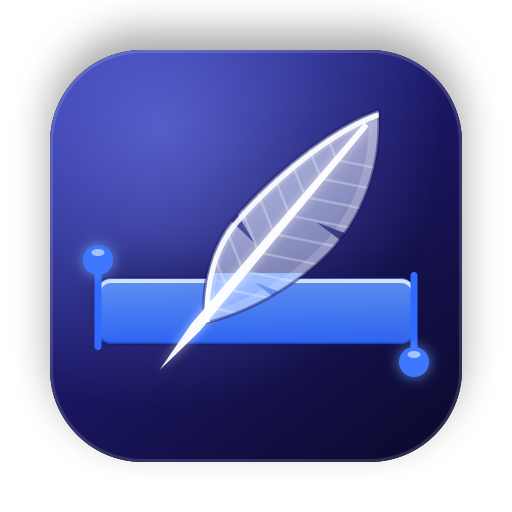
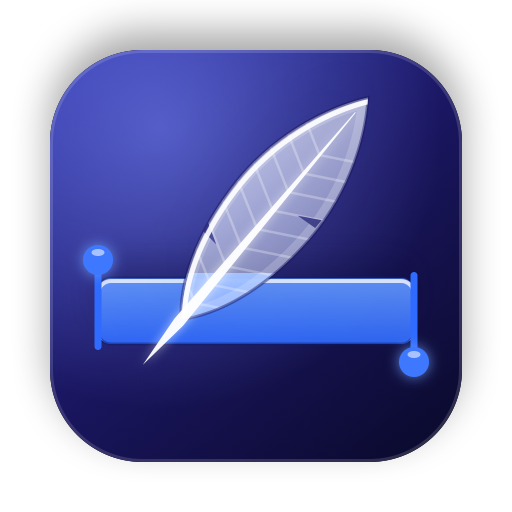
Quill 1.0.1

Changed region(s): [[0.2812, 0.1875, 0.75, 0.7188]]

diff --git a/native/quill/assets/brand/QuillBrand.swift b/native/quill/assets/brand/QuillBrand.swift
@@ -62,16 +62,17 @@ enum Geometry {
     /// (stem x, knob centre y, stem top, stem bottom): top left and bottom right, as on
     /// every text selection.
     static let handles: [(CGFloat, CGFloat, CGFloat, CGFloat)] = [(196, 520, 520, 700), (828, 724, 544, 724)]
-    static let quill = CGAffineTransform(translationX: 540, y: 478).rotated(by: 0.70)
+    static let quill = CGAffineTransform(translationX: 506, y: 468).rotated(by: 0.70)
         .scaledBy(x: 0.93, y: 0.93).translatedBy(x: -512, y: -512)
 
     static var vane: CGPath {
         let path = CGMutablePath()
-        path.move(to: CGPoint(x: 512, y: 150))
-        path.addCurve(to: CGPoint(x: 626, y: 470), control1: CGPoint(x: 590, y: 230), control2: CGPoint(x: 640, y: 350))
-        path.addCurve(to: CGPoint(x: 520, y: 742), control1: CGPoint(x: 612, y: 590), control2: CGPoint(x: 560, y: 690))
-        path.addCurve(to: CGPoint(x: 424, y: 520), control1: CGPoint(x: 470, y: 690), control2: CGPoint(x: 420, y: 610))
-        path.addCurve(to: CGPoint(x: 512, y: 150), control1: CGPoint(x: 428, y: 380), control2: CGPoint(x: 462, y: 230))
+        path.move(to: CGPoint(x: 512, y: 128))
+        path.addCurve(to: CGPoint(x: 612, y: 450), control1: CGPoint(x: 566, y: 200), control2: CGPoint(x: 616, y: 320))
+        path.addCurve(to: CGPoint(x: 516, y: 748), control1: CGPoint(x: 608, y: 590), control2: CGPoint(x: 566, y: 690))
+        path.addLine(to: CGPoint(x: 508, y: 748))
+        path.addCurve(to: CGPoint(x: 412, y: 450), control1: CGPoint(x: 458, y: 690), control2: CGPoint(x: 416, y: 590))
+        path.addCurve(to: CGPoint(x: 512, y: 128), control1: CGPoint(x: 408, y: 320), control2: CGPoint(x: 458, y: 200))
         path.closeSubpath()
         var t = quill
         return path.copy(using: &t)!
@@ -80,7 +81,7 @@ enum Geometry {
     /// Thin wedges cut from the vane's edge, angled like the barbs: what makes it a feather.
     static var notches: CGPath {
         let path = CGMutablePath()
-        for (x, y, inward) in [(640.0, 400.0, -1.0), (620.0, 585.0, -1.0), (418.0, 520.0, 1.0)] {
+        for (x, y, inward) in [(606.0, 400.0, -0.62), (420.0, 560.0, 0.62)] {
             path.move(to: CGPoint(x: x, y: y - 6))
             path.addLine(to: CGPoint(x: x + inward * 74, y: y + 20))
             path.addLine(to: CGPoint(x: x, y: y + 16))
@@ -93,7 +94,7 @@ enum Geometry {
     /// The shaft runs past the vane into a sharp writing point: the quill writes.
     static var shaft: CGPath {
         let path = CGMutablePath()
-        path.move(to: CGPoint(x: 506, y: 190)); path.addLine(to: CGPoint(x: 518, y: 190))
+        path.move(to: CGPoint(x: 511, y: 170)); path.addLine(to: CGPoint(x: 513, y: 170))
         path.addLine(to: CGPoint(x: 524, y: 760)); path.addLine(to: CGPoint(x: 512, y: 880))
         path.addLine(to: CGPoint(x: 500, y: 760)); path.closeSubpath()
         var t = quill
@@ -190,6 +191,9 @@ func drawSelection(_ ctx: CGContext, style: Style, saturated: Bool = false, body
 
 func drawQuill(_ ctx: CGContext, style: Style) {
     let vane = Geometry.vane
+    // The vane's tip is far sharper than the default miter limit (10): without this, every
+    // stroke along its edge is bevelled there and the tip reads as cut off.
+    ctx.setMiterLimit(60)
     ctx.saveGState(); ctx.setShadow(offset: CGSize(width: 0, height: 28), blur: 50, color: rgba(0x070630, style.shadowAlpha))
     ctx.addPath(vane); ctx.setFillColor(rgba(0xFFFFFF, 0.1)); ctx.fillPath(); ctx.restoreGState()
 
@@ -250,6 +254,7 @@ func drawMark(_ ctx: CGContext) {
 /// The mark in one ink: the selection, knocked out where the quill crosses it, and the
 /// quill, its shaft a groove down the vane and ink past it.
 func drawMono(_ ctx: CGContext, color: CGColor) {
+    ctx.setMiterLimit(60)  // the vane's sharp tip, as in drawQuill
     ctx.translateBy(x: 0, y: 6)
     let all = CGRect(x: -512, y: -512, width: 2048, height: 2048)
     ctx.beginTransparencyLayer(auxiliaryInfo: nil)

diff --git a/native/quill/apps/Quill/Menu/BrandMark.swift b/native/quill/apps/Quill/Menu/BrandMark.swift
@@ -21,17 +21,18 @@ enum BrandMark {
         return image
     }
 
-    private static let quill = CGAffineTransform(translationX: 540, y: 478).rotated(by: 0.70)
+    private static let quill = CGAffineTransform(translationX: 506, y: 468).rotated(by: 0.70)
         .scaledBy(x: 0.93, y: 0.93).translatedBy(x: -512, y: -512)
 
     private static func draw(in context: CGContext) {
         var transform = quill
         let vane = CGMutablePath()
-        vane.move(to: CGPoint(x: 512, y: 150))
-        vane.addCurve(to: CGPoint(x: 626, y: 470), control1: CGPoint(x: 590, y: 230), control2: CGPoint(x: 640, y: 350))
-        vane.addCurve(to: CGPoint(x: 520, y: 742), control1: CGPoint(x: 612, y: 590), control2: CGPoint(x: 560, y: 690))
-        vane.addCurve(to: CGPoint(x: 424, y: 520), control1: CGPoint(x: 470, y: 690), control2: CGPoint(x: 420, y: 610))
-        vane.addCurve(to: CGPoint(x: 512, y: 150), control1: CGPoint(x: 428, y: 380), control2: CGPoint(x: 462, y: 230))
+        vane.move(to: CGPoint(x: 512, y: 128))
+        vane.addCurve(to: CGPoint(x: 612, y: 450), control1: CGPoint(x: 566, y: 200), control2: CGPoint(x: 616, y: 320))
+        vane.addCurve(to: CGPoint(x: 516, y: 748), control1: CGPoint(x: 608, y: 590), control2: CGPoint(x: 566, y: 690))
+        vane.addLine(to: CGPoint(x: 508, y: 748))
+        vane.addCurve(to: CGPoint(x: 412, y: 450), control1: CGPoint(x: 458, y: 690), control2: CGPoint(x: 416, y: 590))
+        vane.addCurve(to: CGPoint(x: 512, y: 128), control1: CGPoint(x: 408, y: 320), control2: CGPoint(x: 458, y: 200))
         vane.closeSubpath()
         let shaft = CGMutablePath()
         shaft.move(to: CGPoint(x: 500, y: 700)); shaft.addLine(to: CGPoint(x: 526, y: 700))
@@ -39,6 +40,7 @@ enum BrandMark {
         guard let quillVane = vane.copy(using: &transform), let quillTip = shaft.copy(using: &transform) else { return }
         let band = CGPath(roundedRect: CGRect(x: 196, y: 556, width: 632, height: 132), cornerWidth: 26, cornerHeight: 26, transform: nil)
 
+        context.setMiterLimit(60)  // the vane's sharp tip, as in the brand's drawing
         context.beginTransparencyLayer(auxiliaryInfo: nil)
         context.setFillColor(NSColor.black.cgColor)
         context.addPath(band); context.fillPath()

diff --git a/native/quill/assets/brand/generate.py b/native/quill/assets/brand/generate.py
@@ -23,13 +23,13 @@ SELECTION_LIGHT, SELECTION, HANDLE = "#6FA2FF", "#2F6BFF", "#3D78FF"
 QUILL_INK = "#3B3FC9"
 
 # The quill's placement, exactly QuillBrand.swift's `Geometry.quill`:
-# translate(540, 478) · rotate(0.70 rad) · scale(0.93) · translate(-512, -512).
-QUILL = "translate(540 478) rotate(40.107) scale(0.93) translate(-512 -512)"
-VANE = ("M512 150 C590 230 640 350 626 470 C612 590 560 690 520 742 "
-        "C470 690 420 610 424 520 C428 380 462 230 512 150 Z")
+# translate(506, 468) · rotate(0.70 rad) · scale(0.93) · translate(-512, -512).
+QUILL = "translate(506 468) rotate(40.107) scale(0.93) translate(-512 -512)"
+VANE = ("M512 128 C566 200 616 320 612 450 C608 590 566 690 516 748 L508 748 "
+        "C458 690 416 590 412 450 C408 320 458 200 512 128 Z")
 NOTCHES = "".join(f"M{x} {y - 6} L{x + d * 74} {y + 20} L{x} {y + 16} Z"
-                  for x, y, d in [(640, 400, -1), (620, 585, -1), (418, 520, 1)])
-SHAFT = "M506 190 L518 190 L524 760 L512 880 L500 760 Z"
+                  for x, y, d in [(606, 400, -0.62), (420, 560, 0.62)])
+SHAFT = "M511 170 L513 170 L524 760 L512 880 L500 760 Z"
 SHAFT_LINE = "M512 200 L512 760"
 BAND = dict(x=196, y=556, w=632, h=132, r=26)
 HANDLES = [(196, 520, 520, 700), (828, 724, 544, 724)]  # stem x, knob y, stem top, stem bottom
@@ -37,7 +37,7 @@ HANDLES = [(196, 520, 520, 700), (828, 724, 544, 724)]  # stem x, knob y, stem t
 
 def svg(width, height, body, title, defs=""):
     return (f'<svg xmlns="http://www.w3.org/2000/svg" width="{width:g}" height="{height:g}" '
-            f'viewBox="0 0 {width:g} {height:g}" role="img"><title>{title}</title>'
+            f'viewBox="0 0 {width:g} {height:g}" stroke-miterlimit="60" role="img"><title>{title}</title>'
             f'<defs>{defs}</defs>{body}</svg>\n')
 
 
